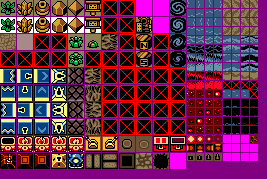
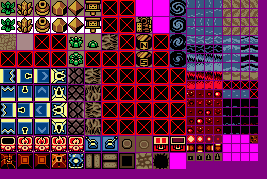
Lever tile

Changed region(s): [[0.2996, 0.7542, 0.4494, 0.8659], [0.1798, 0.838, 0.2697, 0.9497]]

diff --git a/ZeldaOracle/Game/Game/Tiles/Custom/TileLever.cs b/ZeldaOracle/Game/Game/Tiles/Custom/TileLever.cs
@@ -1,0 +1,80 @@
+using System;
+using System.Collections.Generic;
+using System.Linq;
+using System.Text;
+using ZeldaOracle.Common.Geometry;
+using ZeldaOracle.Common.Scripting;
+using ZeldaOracle.Game.Entities;
+using ZeldaOracle.Game.Entities.Players;
+using ZeldaOracle.Game.Entities.Projectiles;
+using ZeldaOracle.Game.Items;
+using ZeldaOracle.Game.Items.Weapons;
+
+namespace ZeldaOracle.Game.Tiles {
+
+	public class TileLever : Tile, ZeldaAPI.Lever {
+
+		private bool isFacingLeft;
+
+
+		//-----------------------------------------------------------------------------
+		// Constructor
+		//-----------------------------------------------------------------------------
+
+		public TileLever() {
+
+		}
+		
+
+		//-----------------------------------------------------------------------------
+		// Lever Methods
+		//-----------------------------------------------------------------------------
+
+		public void Toggle() {
+			isFacingLeft = !isFacingLeft;
+			if (isFacingLeft)
+				CustomSprite = GameData.SPR_TILE_LEVER_LEFT;
+			else
+				CustomSprite = GameData.SPR_TILE_LEVER_RIGHT;
+			GameControl.FireEvent(this, "event_toggle", this);
+		}
+
+
+		//-----------------------------------------------------------------------------
+		// Overridden methods
+		//-----------------------------------------------------------------------------
+
+		public override void OnSwordHit(ItemWeapon swordItem) {
+			Toggle();
+		}
+
+		public override void OnBoomerang() {
+			Toggle();
+		}
+
+		public override void OnBombExplode() {
+			Toggle();
+		}
+
+		public override void OnSeedHit(SeedType type, SeedEntity seed) {
+			seed.DestroyWithVisualEffect(type, seed.Position);
+			Toggle();
+		}
+
+		// TODO: on hit swtich hook.
+		// TODO: On hit projectiles: arrows, magic rod fire
+
+		public override void OnInitialize() {
+			isFacingLeft = true;
+			if (isFacingLeft)
+				CustomSprite = GameData.SPR_TILE_LEVER_LEFT;
+			else
+				CustomSprite = GameData.SPR_TILE_LEVER_RIGHT;
+		}
+
+		public override void Update() {
+			base.Update();
+
+		}
+	}
+}

diff --git a/ZeldaOracle/Game/Common/Scripts/TilesetSR.cs b/ZeldaOracle/Game/Common/Scripts/TilesetSR.cs
@@ -232,14 +232,19 @@ namespace ZeldaOracle.Common.Scripts {
 				tileData.Properties.Set(property.Name, property);
 				
 				// Create the event's script parameter list.
-				CommandParam paramList = parameters[3];
-				ScriptParameter[] scriptParams = new ScriptParameter[paramList.Count / 2];
-				for (int i = 0; i < scriptParams.Length; i++) {
-					scriptParams[i] = new ScriptParameter() {
-						Type = paramList.GetString(i * 2),
-						Name = paramList.GetString((i * 2) + 1)
-					};
+				ScriptParameter[] scriptParams;
+				if (parameters.Count > 3) {
+					CommandParam paramList = parameters[3];
+					scriptParams = new ScriptParameter[paramList.Count / 2];
+					for (int i = 0; i < scriptParams.Length; i++) {
+						scriptParams[i] = new ScriptParameter() {
+							Type = paramList.GetString(i * 2),
+							Name = paramList.GetString((i * 2) + 1)
+						};
+					}
 				}
+				else
+					scriptParams = new ScriptParameter[0];
 
 				// Add the event to the tile-data.
 				tileData.Events.AddEvent(new ObjectEvent(

diff --git a/ZeldaOracle/Game/Game/Tiles/Tile.cs b/ZeldaOracle/Game/Game/Tiles/Tile.cs
@@ -224,7 +224,7 @@ namespace ZeldaOracle.Game.Tiles {
 		//-----------------------------------------------------------------------------
 		
 		// Called when a seed of the given type hits this tile.
-		public virtual void OnSeedHit(SeedType type, Entity seed) { }
+		public virtual void OnSeedHit(SeedType type, SeedEntity seed) { }
 
 		// Called when the player presses A on this tile, when facing the given direction.
 		// Return true if player controls should be disabled for the rest of the frame.

diff --git a/ZeldaOracle/Game/Game/Tiles/Custom/TileLantern.cs b/ZeldaOracle/Game/Game/Tiles/Custom/TileLantern.cs
@@ -59,7 +59,7 @@ namespace ZeldaOracle.Game.Tiles {
 		// Overridden methods
 		//-----------------------------------------------------------------------------
 		
-		public override void OnSeedHit(SeedType seedType, Entity seed) {
+		public override void OnSeedHit(SeedType seedType, SeedEntity seed) {
 			if (seedType == SeedType.Ember && !Properties.GetBoolean("lit", false)) {
 				Light();
 				seed.Destroy();

diff --git a/ZeldaOracle/Game/Game/Tiles/Custom/TileOwl.cs b/ZeldaOracle/Game/Game/Tiles/Custom/TileOwl.cs
@@ -39,7 +39,7 @@ namespace ZeldaOracle.Game.Tiles {
 		// Overridden methods
 		//-----------------------------------------------------------------------------
 		
-		public override void OnSeedHit(SeedType seedType, Entity seed) {
+		public override void OnSeedHit(SeedType seedType, SeedEntity seed) {
 			if (seedType == SeedType.Mystery && !isActivated) {
 				isActivated		= true;
 				sparkleIndex	= 0;

diff --git a/ZeldaAPI/Tile.cs b/ZeldaAPI/Tile.cs
@@ -32,6 +32,9 @@ namespace ZeldaAPI {
 
 	public interface Button {
 	}
+
+	public interface Lever {
+	}
 	
 	public interface Reward {
 		void SpawnReward();
